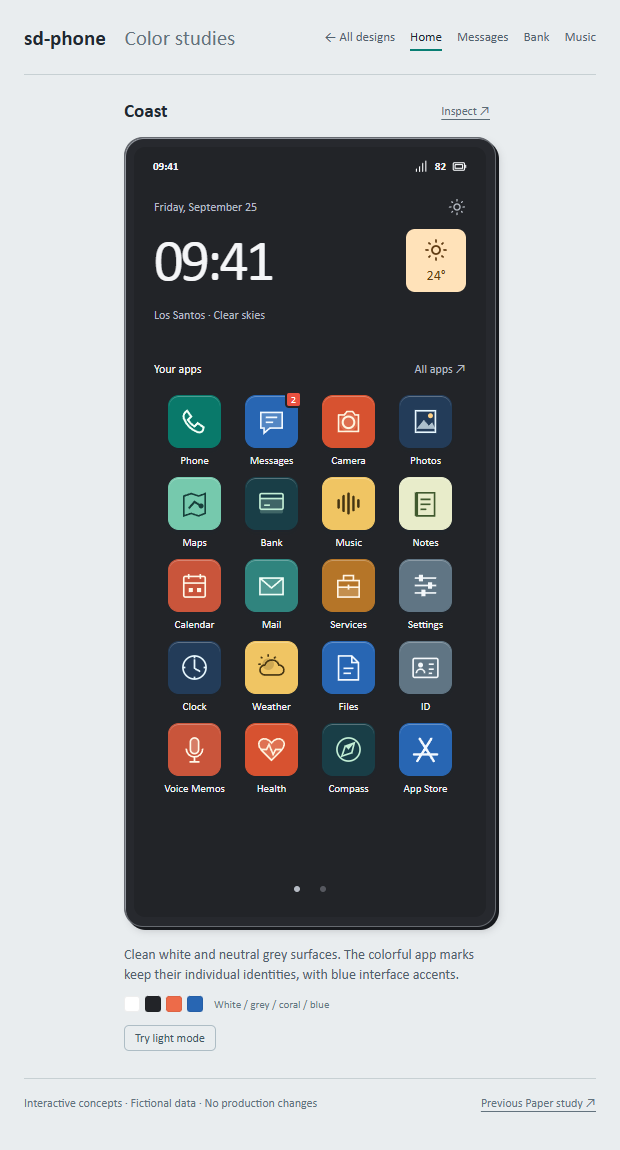
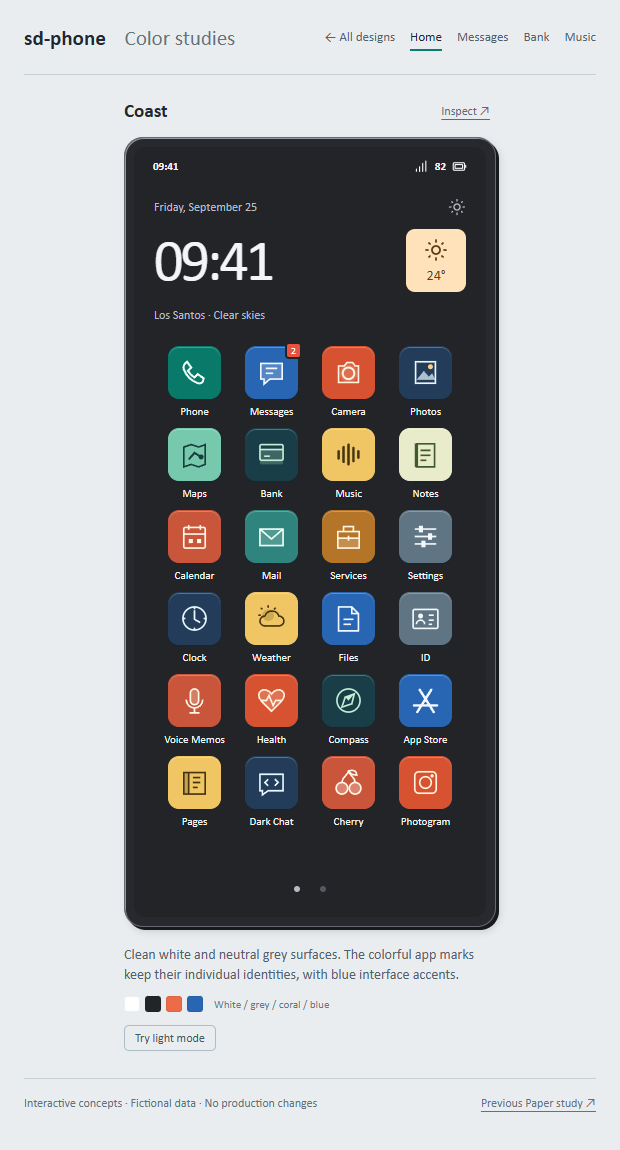
Remove app caption and fit six rows in phone mockup

Changed region(s): [[0.2452, 0.2739, 0.4903, 0.7304], [0.6435, 0.2739, 0.7355, 0.7304], [0.521, 0.2739, 0.6129, 0.7304]]

diff --git a/designs/phone-concepts/vibrant.html b/designs/phone-concepts/vibrant.html
@@ -57,8 +57,6 @@
     .preview-copy > div { display: flex; justify-content: space-between; align-items: center; gap: 4px; }
     .preview-copy time { font-size: 10px; color: var(--muted); }
     .preview-copy p { margin: 3px 0 0; color: var(--muted); font-size: 12px; }
-    .apps-caption { display: flex; align-items: center; justify-content: space-between; margin: 21px 0 14px; font-size: 12px; }
-    .apps-caption button { color: var(--muted); font-size: 12px; }
     .app-grid { display: grid; grid-template-columns: repeat(4, minmax(0, 1fr)); gap: 23px 12px; }
     .app-tile { min-width: 0; display: flex; align-items: center; flex-direction: column; gap: 8px; border: 0; background: none; color: var(--ink); padding: 0; }
     .app-mark { width: 53px; height: 53px; border-radius: 11px; position: relative; display: grid; place-items: center; color: var(--glyph); background: var(--tile); border: 1px solid var(--tile); box-shadow: inset 0 1px 0 #ffffff45, 0 2px 0 #10263320, 0 3px 5px #10263312; }
@@ -261,7 +259,7 @@
     const input = label => `<label class="input-field">${icon('search')}<input data-search type="search" placeholder="${label}" aria-label="${label}"></label>`;
     const safe = value => value.replace(/[&<>"']/g, char => ({'&':'&amp;','<':'&lt;','>':'&gt;','"':'&quot;',"'":'&#39;'}[char]));
     function home(id) {
-      return `<div class="home"><div class="greeting"><span>${id === 'current' ? 'Good evening, Alex.' : 'Friday, September 25'}</span>${icon('sun')}</div><div class="clock-row"><div class="clock">${id === 'current' ? '18:41' : '09:41'}</div><div class="weather">${icon('sun')}<span>24°</span></div></div><div class="place">Los Santos${id === 'current' ? ' · 24° · 18:41' : ' · Clear skies'}</div>${id === 'current' ? button('music', `<div class="hero-record">${icon('record')}</div><div><span>Continue listening</span><strong>Late Shift</strong><span>Los Santos FM · Your playlist</span></div>`, 'hero-music') : ''}<div class="apps-caption"><span>Your apps</span>${button('apps','All apps ↗')}</div><div class="home-pager" tabindex="0" aria-label="App pages. Swipe left or right, or use arrow keys."><div class="app-grid">${tile('phone')}</div></div><div class="page-dots" aria-label="Choose an app page"></div></div>`;
+      return `<div class="home"><div class="greeting"><span>${id === 'current' ? 'Good evening, Alex.' : 'Friday, September 25'}</span>${icon('sun')}</div><div class="clock-row"><div class="clock">${id === 'current' ? '18:41' : '09:41'}</div><div class="weather">${icon('sun')}<span>24°</span></div></div><div class="place">Los Santos${id === 'current' ? ' · 24° · 18:41' : ' · Clear skies'}</div>${id === 'current' ? button('music', `<div class="hero-record">${icon('record')}</div><div><span>Continue listening</span><strong>Late Shift</strong><span>Los Santos FM · Your playlist</span></div>`, 'hero-music') : ''}<div class="home-pager" tabindex="0" aria-label="App pages. Swipe left or right, or use arrow keys."><div class="app-grid">${tile('phone')}</div></div><div class="page-dots" aria-label="Choose an app page"></div></div>`;
     }
     function content(id,s) {
       if(s.page === 'home') return home(id);
@@ -286,9 +284,15 @@
       const sample=pager.querySelector('.app-tile');
       const gridStyle=getComputedStyle(pager.querySelector('.app-grid')), gap=parseFloat(gridStyle.rowGap);
       const usableHeight=pager.clientHeight-parseFloat(gridStyle.paddingTop)-parseFloat(gridStyle.paddingBottom);
-      const perPage=Math.max(4,Math.floor((usableHeight+gap)/(sample.getBoundingClientRect().height+gap))*4);
-      const apps=Object.keys(appNames), pages=Array.from({length:Math.ceil(apps.length/perPage)},(_,index)=>apps.slice(index*perPage,(index+1)*perPage));
-      pager.innerHTML=pages.map((apps,index)=>`<div class="app-grid" role="group" aria-label="App page ${index+1} of ${pages.length}">${apps.map(tile).join('')}</div>`).join('');
+      let perPage=Math.max(4,Math.floor((usableHeight+gap)/(sample.getBoundingClientRect().height+gap))*4);
+      const apps=Object.keys(appNames); let pages;
+      const pack=()=>{
+        pages=Array.from({length:Math.ceil(apps.length/perPage)},(_,index)=>apps.slice(index*perPage,(index+1)*perPage));
+        pager.innerHTML=pages.map((apps,index)=>`<div class="app-grid" role="group" aria-label="App page ${index+1} of ${pages.length}">${apps.map(tile).join('')}</div>`).join('');
+      };
+      pack();
+      // Wrapped app names can make individual rows taller in narrow comparisons.
+      while(perPage>4 && [...pager.children].some(grid=>grid.scrollHeight>grid.clientHeight+1)){perPage-=4;pack();}
       phone.querySelector('.page-dots').innerHTML=pages.map((_,index)=>`<button data-home-page="${index}" aria-label="App page ${index+1} of ${pages.length}"><span aria-hidden="true"></span></button>`).join('');
       const s=state[phone.dataset.design]; s.homeIndex=Math.min(s.homeIndex,pages.length-1);
       const update=()=>{

diff --git a/designs/phone-concepts/README.md b/designs/phone-concepts/README.md
@@ -6,7 +6,7 @@ Open `vibrant.html` for three fresh directions: **Coast** (clean white or dark g
 
 Open `vibrant.html?study=coast` to compare the selected Coast design in both modes. Light mode uses pure white `#ffffff`, dark text `#23262c`, and neutral surfaces `#f2f3f5`. Dark mode uses dark grey `#222428`, white text `#f4f5f7`, and graphite surfaces `#303338`. Backgrounds, text, borders, and the device frame have no green tint; individual app icons retain their colors.
 
-The home-screen message preview, music strip, and bottom Home / Apps / Messages navigation bar have been removed. All 33 registry apps use a compact four-column grid with iPhone-style horizontal pages, not a vertically scrolling home grid. Swipe left/right on touch screens or drag with a mouse; pages snap into place. Click the page dots or focus the grid and use left/right arrow keys to navigate. Rows are packed to fit each preview without clipping or vertical scrolling, and returning from an app preserves the home page. Icons retain their original size and matching graphic marks. All apps still opens the searchable directory. Removed apps are not included. These are preview tiles, not new production apps. The controls above the phones remain available for comparing example screens.
+The home-screen message preview, music strip, Your apps / All apps caption, and bottom Home / Apps / Messages navigation bar have been removed. Icons begin higher on the screen; Coast fits six rows (24 apps) on the first page. All 33 registry apps use a compact four-column grid with iPhone-style horizontal pages, not a vertically scrolling home grid. Swipe left/right on touch screens or drag with a mouse; pages snap into place. Click the page dots or focus the grid and use left/right arrow keys to navigate. Rows are packed to fit each preview without clipping or vertical scrolling, and returning from an app preserves the home page. Icons retain their original size and matching graphic marks. Removed apps are not included. These are preview tiles, not new production apps. The controls above the phones remain available for comparing example screens.
 
 Screenshots are in `screenshots/vibrant/`. Run `node designs/phone-concepts/capture-vibrant.mjs` to refresh them and check interactions. This uses the existing Playwright dependency and installed Chrome.
 
